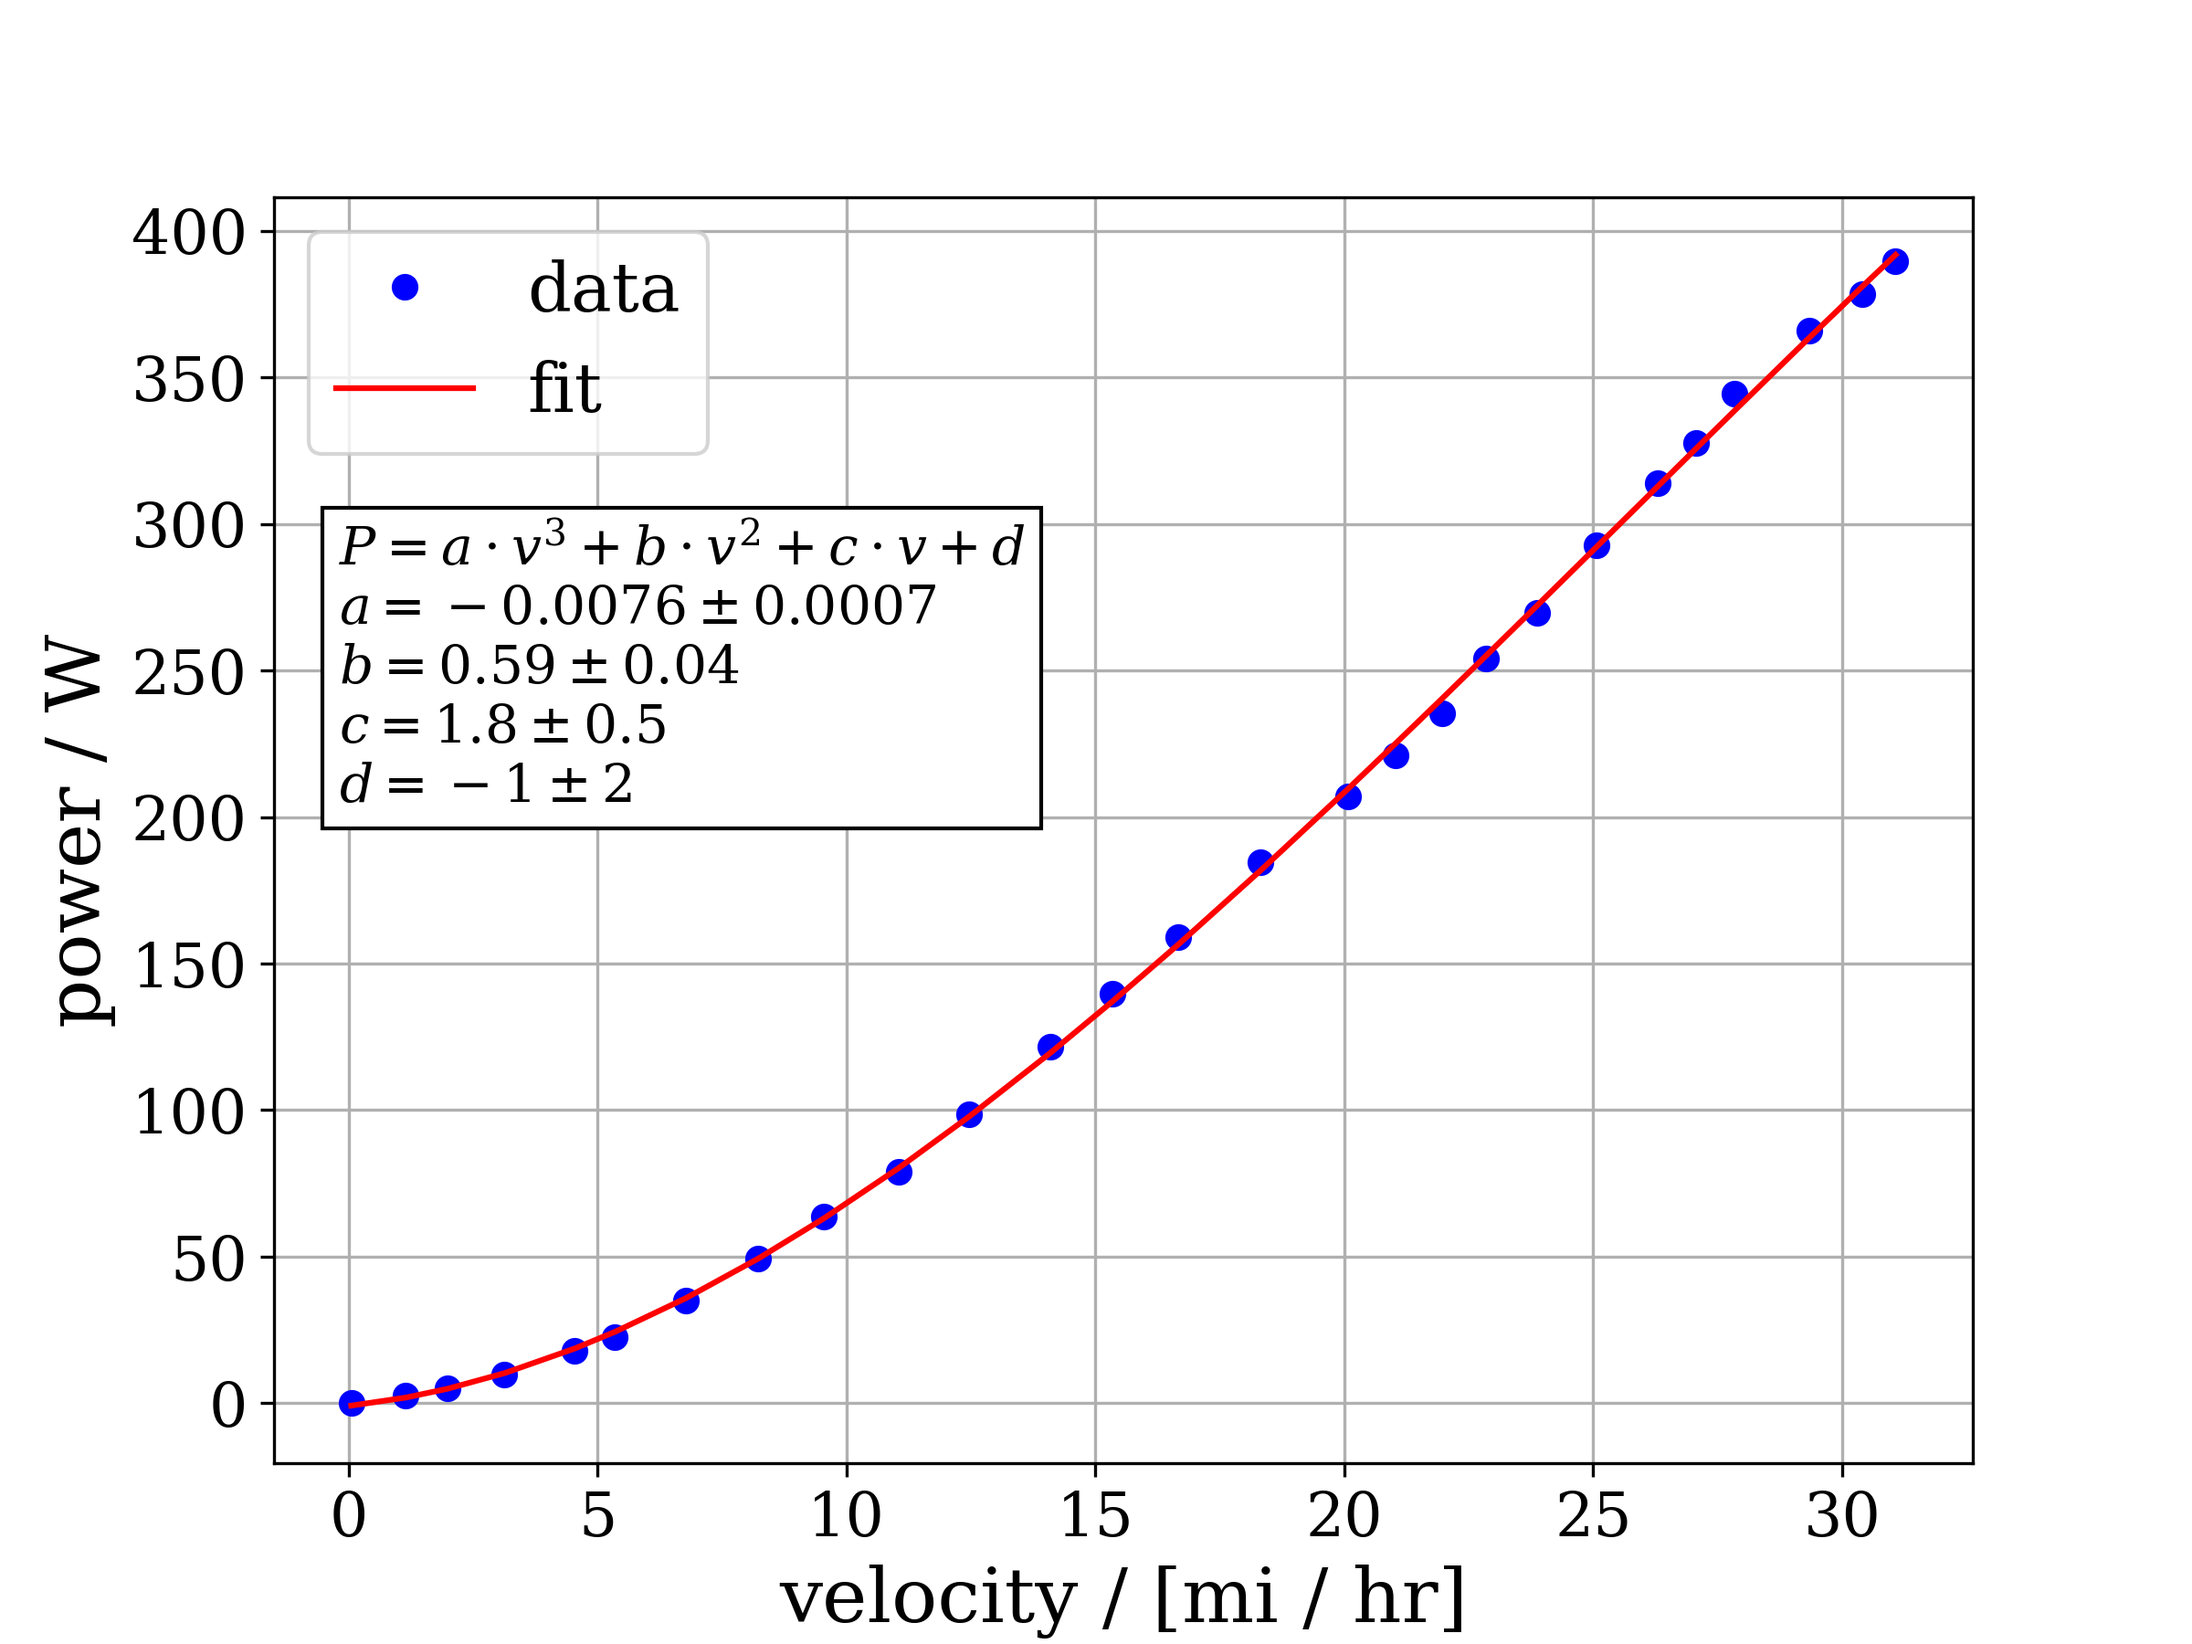
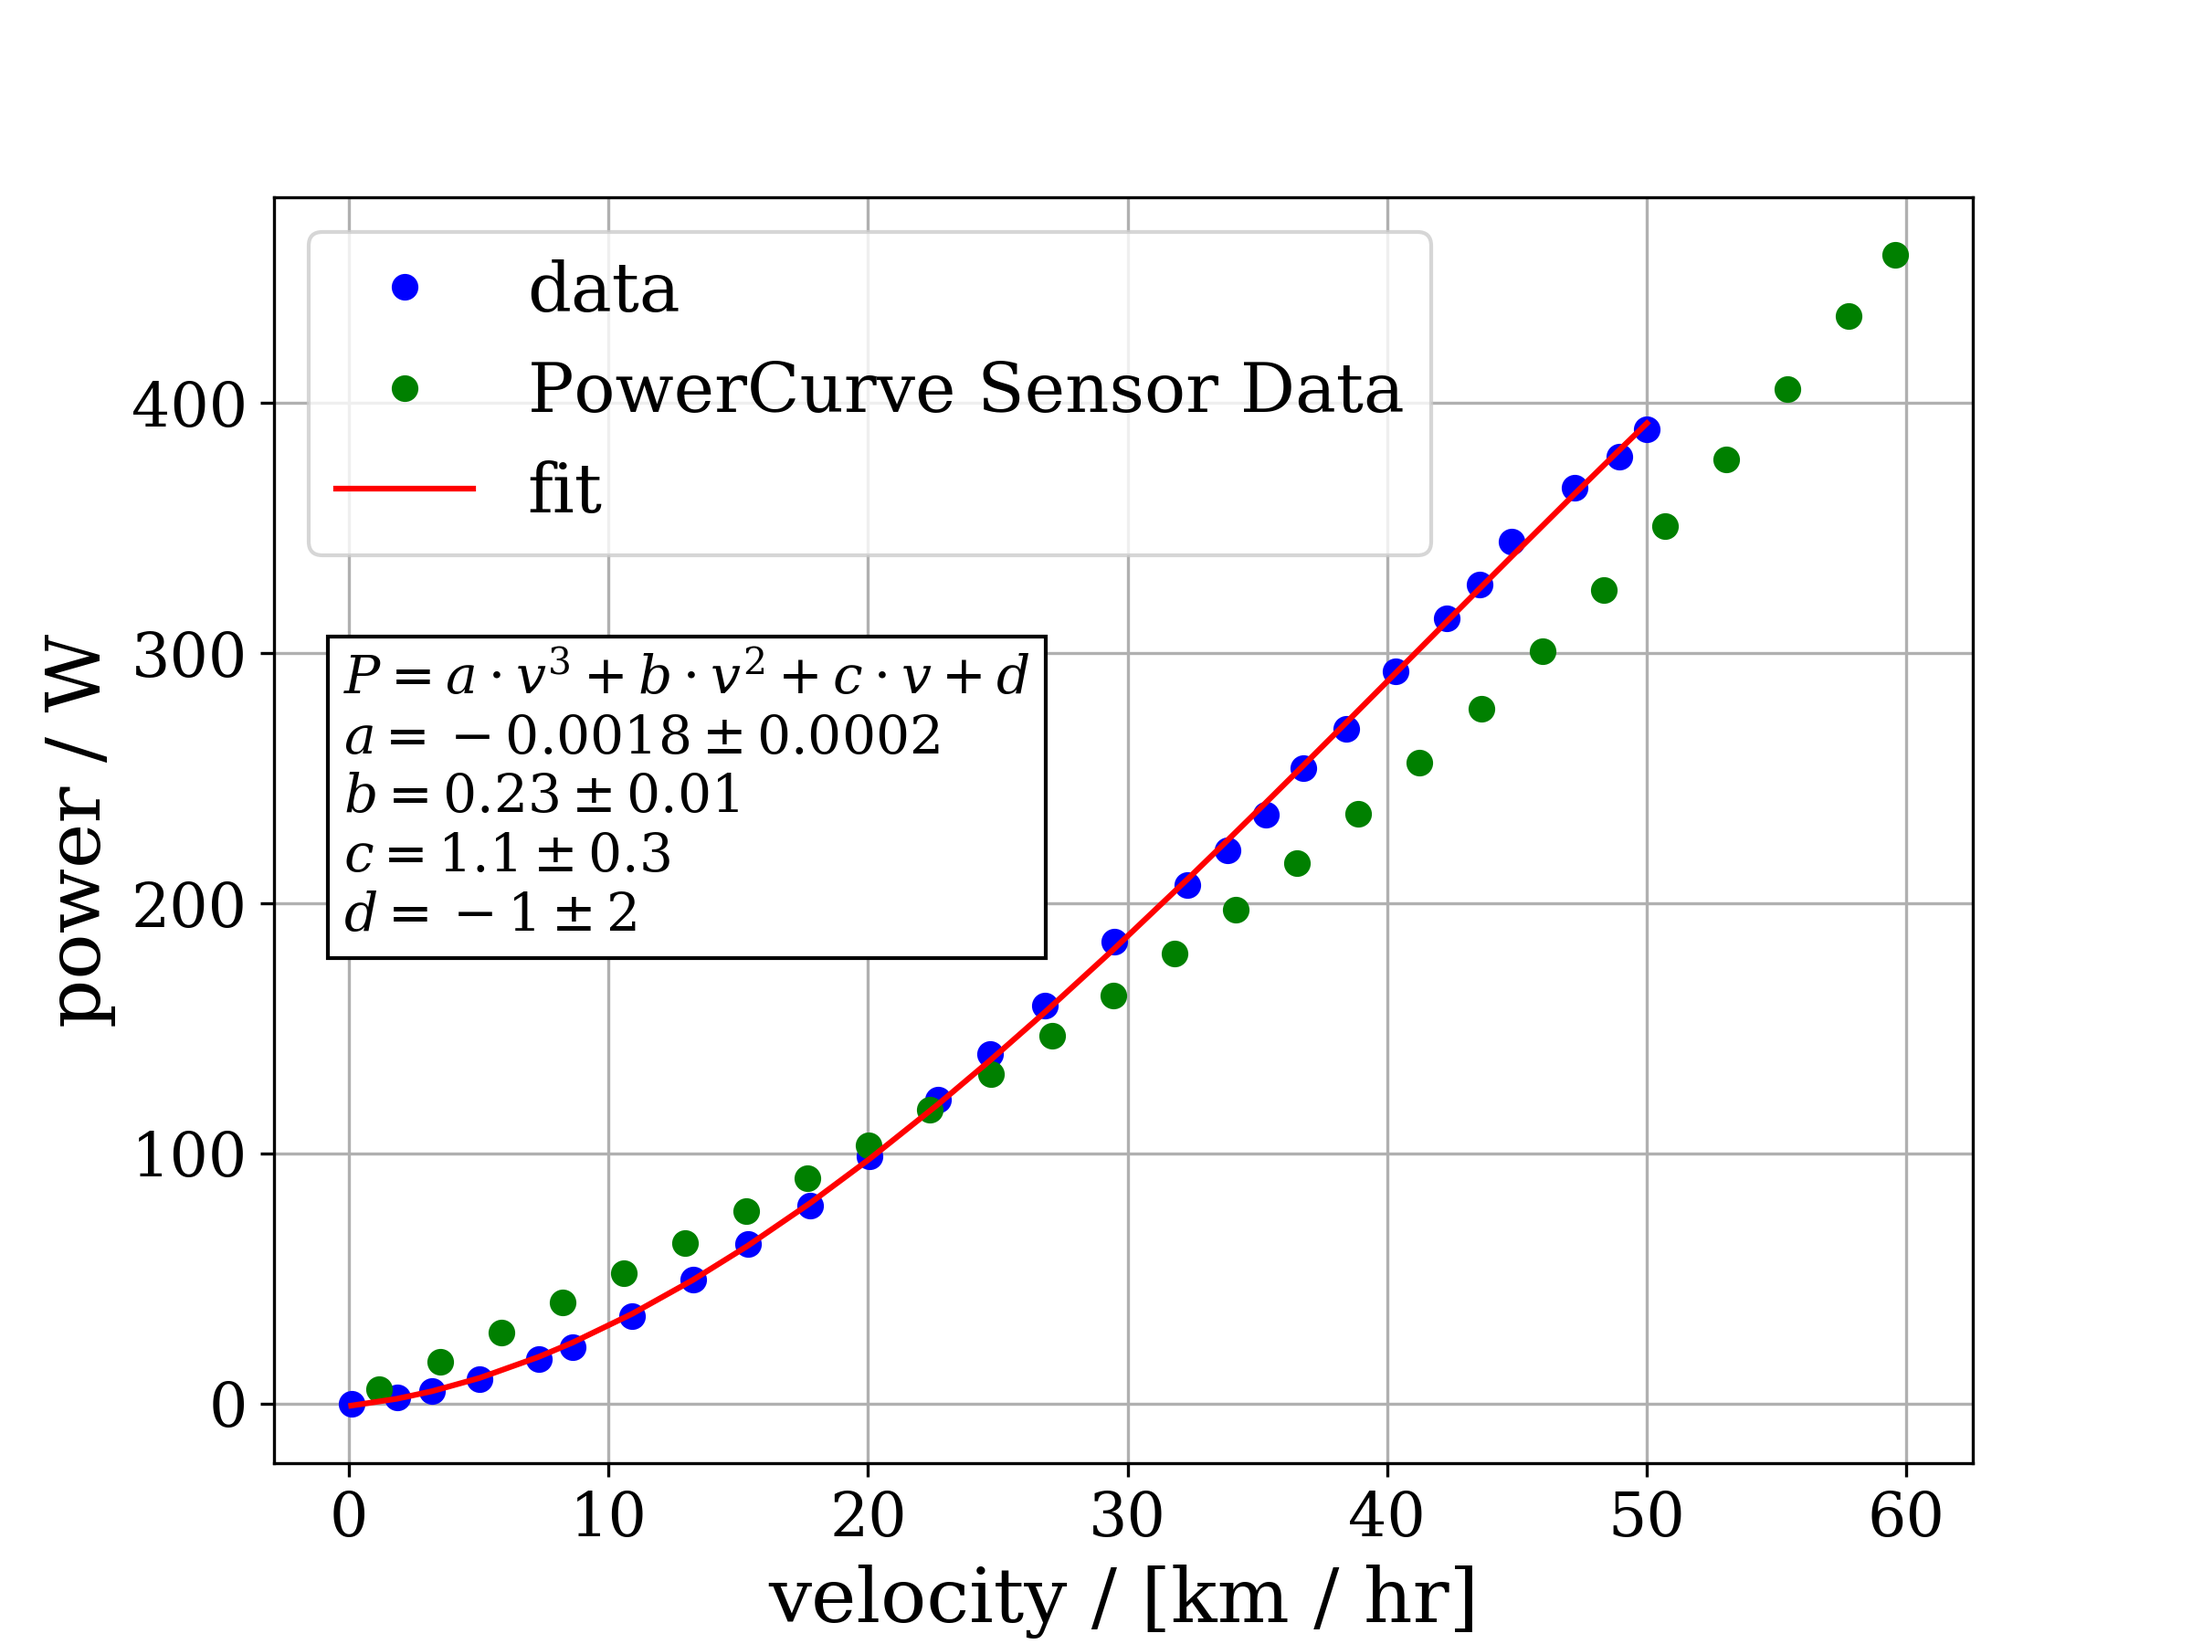
Adding the power data that Mate uses

diff --git a/powercurve.py b/powercurve.py
@@ -1,5 +1,8 @@
 import numpy as np
 
+from astropy import units as u
+u.imperial.enable()
+
 from lmfit import minimize, Parameters
 
 import matplotlib.pyplot as plt
@@ -19,6 +22,11 @@ rcParams['legend.fontsize'] = 18
 
 vs_dat, pwrs_dat = np.loadtxt('pwrcurve.csv', delimiter=',', unpack=True,
                               skiprows=0)
+vs_dat = (vs_dat*u.imperial.mi/u.hr).to(u.km/u.hr)
+vs_mate, pwrs_mate = np.loadtxt('pwrcurve_mate.csv', delimiter=',', unpack=True,
+                                skiprows=0)
+vs_mate = vs_mate*u.km/u.hr
+
 sort_is=np.argsort(vs_dat)
 vs_dat=vs_dat[sort_is]
 pwrs_dat=pwrs_dat[sort_is]
@@ -29,6 +37,7 @@ def pwr_f(v,params):
     b=params['b'].value
     c=params['c'].value
     d=params['d'].value
+    v=v.value
     pwr = a*v**3. + b*v**2. + c*v + d
     return pwr
 def resids_f(params, vs, pwrs_dat):
@@ -49,8 +58,14 @@ print(fit.params)
 fig=plt.figure(figsize=(8,6))
 ax=fig.add_subplot(111)
 ax.plot(vs_dat, pwrs_dat, 'ob', label='data')
+ax.plot(vs_mate, pwrs_mate, 'og', label='PowerCurve Sensor Data')
 ax.plot(vs_dat, pwr_f(vs_dat, fit.params), '-r', label='fit')
-ax.set_xlabel('velocity / [mi / hr]')
+if vs_dat.unit == 'mi/h' and vs_mate.unit == 'mi/h':
+    ax.set_xlabel('velocity / [mi / hr]')
+elif vs_dat.unit == 'km/h' and vs_mate.unit == 'km/h':
+    ax.set_xlabel('velocity / [km / hr]')
+else:
+    raise ValueError('unexpected velocity units')
 ax.set_ylabel('power / W')
 ax.legend()
 bbox_props=dict(boxstyle='square', fc='white') #Define props of txt box
